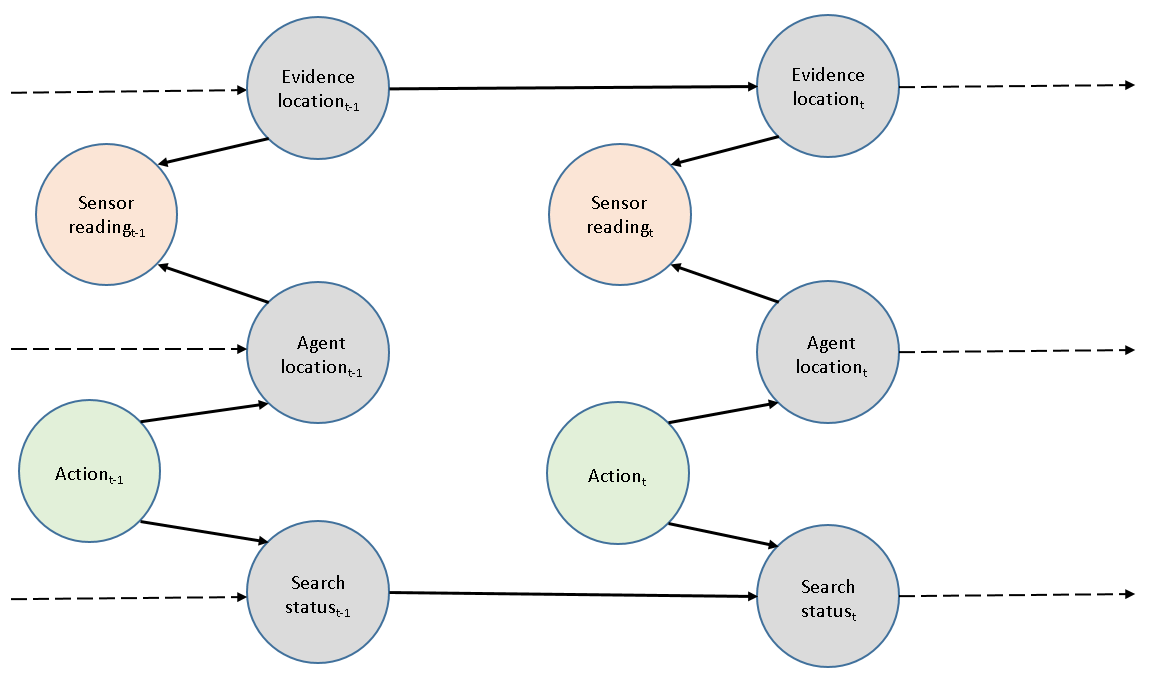
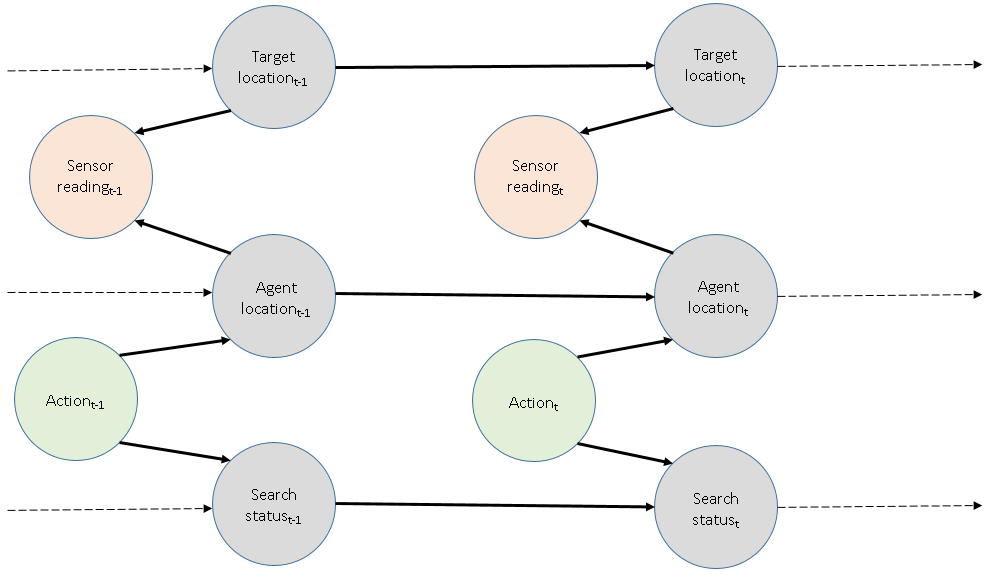
Updated as far as Search Termination Criteria

diff --git a/Chapters/MultiAgentTargetDetection/MultiAgentTargetDetectionUsingRavs.tex b/Chapters/MultiAgentTargetDetection/MultiAgentTargetDetectionUsingRavs.tex
@@ -1,4 +1,7 @@
 %First define the problem to be solved
+\nomenclature{CPD}{Conditional Probability Distribution}
+\nomenclature{SPRT}{Sequential Probability Ratio Test}
+
 \subsection{Problem Description}
 As mentioned in Chapter \ref{chapter:introduction}, a major problem in hazardous scene management includes localizing sources of hazardous materials and localizing potential sources of evidence. The reasons these are difficult problems, in the context of the ROCSAFE project, are:
 \begin{itemize}
@@ -74,18 +77,18 @@ The unknown location of the target can be described by the set
 \[\{x_1, x_2, ..., x_n, x_{n+1}\}\]
 where $x_i$ represents the target location being at grid cell $i$ for $i \in \{1, 2, .., n\}$, and $x_{n+1}$ represents that the target is not present. The search status can be described by 
 \[ \{ONGOING, TERMINATED\_x_1, TERMINATED\_x_2, ..., TERMINATED\_x_n, TERMINATED\_x_{n+1}\} \]
-where $ONGOING$ represents that the search is continuing and $TERMINATED\_x_i$ is an absorbing terminal state that arises from the agent taking a terminal action indicating the target location, explained further in the subsequent paragraph. It is necessary to include the terminal states in the environment representation in order to specify \textit{goal states} and a \textit{performance measure} for the agent. The Cartesian product of these sets defines the environment state.
+where $ONGOING$ represents that the search is continuing and $TERMINATED\_x_i$ is an absorbing terminal state that arises from the agent taking a terminal action indicating the target location, explained further in the subsequent paragraph. It is necessary to include the terminal states in the environment representation in order to specify \textit{goal states} and a \textit{performance measure} for the agent. For technical reasons, the agent's location was also included in it's state representation. The Cartesian product of these sets defines the environment state. Figure \ref{fig:FirstDBNUsed} depicts the conditional independence assumptions made between the hidden state variables.
 \note{Goal state not explicitly mentioned - might need to modify definitions to be able to include one.}
 
 \subsubsection{Actuators and Sensors}
-Here we consider the actions that may be chosen to be performed by actuators and percepts that may be received by sensors. The problem of \textit{target localization} in the context of this chapter requires the agent to move around a discrete grid and use a calibrated sensor to record noisy readings that indicate whether the target is present or not at the location of the reading. It is therefore intuitive to describe the set of possible actions to be performed by the actuators by the set of all $n$ possible grid locations that the agent can move to and take a sensor reading at, indexed by an arbitrary ordering: $\{location_1, location_2, ..., location_n\}$. We add additional actions to this set, $\{TERMINATE\_SEARCH\_x_{i}\}$, for $i \in \{1, 2, ..., n, n+1\}$, which lead to an absorbing terminal state representing the agent's conclusion regarding whether a target is present or not, $TERMINATED\_x_{i}$ . The set of percepts that the agent will receive from its sensors come from the binary set \{1, 0\}, indicating the target has or has not been detected, respectively.
+Here we consider the actions that may be chosen to be performed by actuators and percepts that may be received by sensors. The problem of \textit{target localization} in the context of this chapter requires the agent to move around a discrete grid and use a calibrated sensor to record noisy readings that indicate whether the target is present or not at the location of the reading. It is therefore intuitive to describe the set of possible actions to be performed by the actuators by the set of all $n$ possible grid locations that the agent can move to and take a sensor reading at, indexed by an arbitrary ordering: $\{move\_x_1, move\_x_2, ..., move\_x_n\}$. We add additional actions to this set, $\{terminate\_search\_x_{i}\}$, for $i \in \{1, 2, ..., n, n+1\}$, which lead to an absorbing terminal state representing the agent's conclusion regarding whether a target is present or not, $terminated\_x_{i}$ . The set of percepts that the agent will receive from its sensors come from the binary set \{1, 0\}, indicating the target has or has not been detected, respectively.
 
 
 
-\subsubsection{Performance Measure}
+\subsubsection{Performance Measure}\label{sssection:PerfMeas}
 The agent's performance measure maps sequences of environment states to the real numbers. Given the above definitions, it is clear that environment states of the form
 \[ <x_i, TERMINATED\_x_i> \]
-should be of high value (as they indicate that the agent has correctly identified the location of the target in the environment). Secondary to this, longer percept sequences should have a lower value than shorter percept sequences. Therefore, the performance measure primarily gives high values to the agent when it correctly identifies the location of the target or correctly concludes that the target is not present, with a secondary ordering on value determined by the time taken to come to a conclusion. This can be defined as:
+should be of high value (as they indicate that the agent has correctly identified the location of the target in the environment). Secondary to this, longer percept sequences should have a lower value than shorter percept sequences. Therefore, the performance measure primarily gives high values to the agent when it correctly identifies the location of the target or correctly concludes that the target is not present, with a secondary ordering on value determined by the time taken to come to a conclusion. The actual value of the function only needs to follow this ordering, but could be suitably be defined as:
 \note{Be careful that this agrees with the rest}
 \[
 Performance Measure(state_1,..., state_t) = 
@@ -116,7 +119,7 @@ It is worth noting that this performance measure suggests goal states for the ag
 \[ <x_i, TERMINATED\_x_i> \]
 
 \subsubsection{Agent Function Design}
-Once key components of the agent and it's environment were identified, we began working on the design of the agent function. In Chapter \ref{Background}, four common classes of agents were identified, based on the design of their corresponding agent function. Using this list as a reference, we decided that a model-based agent would be a suitable starting point, since model-based agents can maintain internal state to handle problems associated with partial observability \cite{AIAMA}. The decision was also based on related works \cite{Chung2007ASearchb}, \cite{WaharteProbabilisticUAVsb}, \cite{Charrow2014CooperativeLocalization}. The agent function is implemented as shown in algorithm \ref{alg:ModelBasedReflexAgent}, based on \cite[p.~51]{AIAMA}. 
+Once key components of the agent and its environment were identified, we began working on the design of the agent function. In Chapter \ref{Background}, four common classes of agents were identified, based on the design of their corresponding agent function. Using this list as a reference, we decided that a model-based agent would be a suitable starting point, since model-based agents can maintain internal state to handle problems associated with partial observability \cite{AIAMA}. The decision was also based on related works \cite{Chung2007ASearchb}, \cite{WaharteProbabilisticUAVsb}, \cite{Charrow2014CooperativeLocalization}. The agent function is implemented as shown in algorithm \ref{alg:ModelBasedReflexAgent}, based on \cite[p.~51]{AIAMA}. 
 \note{Considered adding a figure, but not sure how much extra value it will provide}
 %A diagram which outlines the agent operates in relation to the environment is shown in figure \ref{}.
 
@@ -153,35 +156,175 @@ $
 \end{algorithmic} 
 \end{algorithm}
 
-The algorithm clearly outlines how the agent maintains its representation of the world, based on percepts and actions. This abstract version of the model-based reflex agent function is used throughout the rest of this section when referring to agents. Subsequent sections provide details of how to implement the agent's internal state, the world model and the action-selection function.
+The algorithm outlines how the agent maintains its representation of the world, based on percepts and actions. This abstract version of the model-based reflex agent function is used throughout the rest of this section when referring to agents. Subsequent sections provide details of how to implement the agent's internal state, the world model and the action-selection function.
 
 \subsubsection{Stochastic Environment Model}
 \workinprogress
-Model-based agents require a concrete implementation of a model of their world, in order to maintain their internal state. Since the world is assumed to be partially observable, the agent's internal state can be thought of as its opinion of what state the world might be in, and its model describes how it believes the world changes. Chapter \ref{chapter:Background} outlines the background behind potential models of the stochastic world, including both internal state representation and how internal state can be updated.\par
-Hidden Markov Models and Dynamic Bayesian Networks were identified as highly suitable models, due to the fact that they provide a succinct and flexible representation of stochastic world state, as well as efficient online state estimation updating algorithms. We chose to use a Dynamic Bayesian Network (DBN), due to the fact that it can help overcome some of the limitations that HMMs potentially may present (outlined in chapter \ref{chapter:Background}). DBNs also facilitate the incorporation of extra variables, such as battery level, which we were intending to do once a basic implementation was shown to work as intended.
+Model-based agents require a concrete implementation of a model of their world, in order to maintain their internal state. The agent's internal state can be thought of as its opinion of what state the world might be in, and its model describes how it believes the world changes over time. Chapter \ref{chapter:Background} outlines the background behind potential models of the stochastic world, including both how internal state can be represented and how internal state can be updated.\par
+Hidden Markov Models and Dynamic Bayesian Networks were identified as highly suitable models, due to the fact that they provide a succinct and flexible representation of hidden stochastic world state, as well as efficient online state estimation updating algorithms. We chose to use a Dynamic Bayesian Network (DBN), due to the fact that it can help overcome some of the limitations that HMMs potentially may present (outlined in chapter \ref{chapter:Background}). DBNs also facilitate the incorporation of extra variables with arbitrary conditional dependence relations. This was desirable, since we planned to extend the model to include extra variables, such as battery level, once a basic implementation was shown to work as intended.
 
-The DBN used is shown in figure \ref{FirstDBNUsed}
-
+The 2-Time Slice DBN used is shown in figure \ref{fig:FirstDBNUsed} describes the agent's world model. A first-order Markov assumption is made, where the current state only depends on the state directly preceding it. Grey coloured variables are \textit{hidden state variables} and are assumed to not be directly observable. Green coloured variables are \textit{control actions} taken by the agent (which use the agent's estimated state) and the peach coloured variables are \textit{evidence variables}, which are assumed to be observable and depend on the hidden world state. 
+%The agent's location and the search status hidden state variables are mainly included for technical reasons
+\note{maybe re-position figure so text wraps}
 \begin{figure}
     \centering
     \includegraphics[width = 0.8\linewidth]{Chapters/MultiAgentTargetDetection/Figs/DBNWithMultipleHiddenState.PNG}
+     \caption{First Version of the DBN representing the agent world model}
     \label{fig:FirstDBNUsed}
-    \caption{First Version of the DBN representing the agent world model}
-    
+\end{figure}
+A number of conditional probabilities are specified here in order to describe the factored joint distribution of the world model fully. The full tables are omitted as they are sparse. For brevity, we use the abbreviation Loc for Location.
+
+
+
+\begin{figure}[H]
+\scriptsize
+\begin{equation}\label{eqn:EvidenceVarsProbs}
+    %\centering
+    p(SensorReading_t | AgentLoc_{t-1}, EvidenceLoc_{t-1})  = 
+    \begin{cases}
+    \alpha \quad \text{ if } SensorReading_t=1 \text{ and } EvidenceLoc_t \neq AgentLoc_t
+    \\
+    1-\beta \quad \text{ if } SensorReading_t=1 \text{ and } EvidenceLoc_t = AgentLoc_t
+    \\
+    \beta \quad \text{ if } SensorReading_t=0 \text{ and } EvidenceLoc_t \neq AgentLoc_t
+    \\
+    1-\alpha \quad \text{ if } SensorReading_t=0 \text{ and } EvidenceLoc_t \neq AgentLoc_t
+    \end{cases}
+    %
+\end{equation}
+\caption{Conditional Probability Distribution for the $Evidence$ Variable}
+\end{figure}
+
+
+\begin{figure}[H]
+\scriptsize
+\begin{equation}\label{eqn:TargetLocProbs}
+    p(TargetLoc_{t} | TargetLoc_{t-1}) =
+    \begin{cases}
+    1 \quad \text{ if } TargetLoc_{t}=TargetLoc_{t-1}
+    %agent returns correct target Loc.} 
+    \\
+    0 \quad \text { otherwise. }
+    \end{cases}
+\end{equation}
+\caption{Conditional Probability Distribution for the $TargetLocation$ Variable}
 \end{figure}
 
 
 
 
-\subsubsection{Internal state}
-\placeholder
+
+\begin{figure}[H]
+\scriptsize
+%\begin{equation}\label{eqn:SearchStatus}
+    \begin{gather}\label{eqn:SearchStatus}
+        p(SearchStatus_t | SearchStatus_{t-1}, Action_{t-1}) = \\
+        \begin{cases}
+        1 \quad \text{ if } SearchStatus_t = terminated\_x_i \text{ and } SearchStatus_{t-1} = terminated\_x_i 
+        \\
+        1 \quad \text{ if } Action_t = terminate\_x_i \text{ and } SearchStatus_{t-1}=ongoing \text{ and } SearchStatus_{t} = terminated\_x_i
+        \\
+        1 \quad \text{ if } Action_t = move\_x_i \text{ and } SearchStatus_{t-1}=ongoing \text{ and } SearchStatus_t=ongoing
+        %agent returns correct target location.} 
+        \\
+        0 \quad \text { otherwise. }
+        \end{cases}
+    \end{gather}
+%\end{equation}
+\caption{Conditional Probability Distribution for the $SearchStatus$ Variable}
+\end{figure}
+
+
+
+
+
+\begin{figure}[H]
+\scriptsize
+    \begin{equation}\label{eqn:AgentLocation}
+        p(AgentLoc_t | AgentLoc_{t-1}, Action_{t}) = 
+        \begin{cases}
+        1 \quad \text{ if } Action_t = move\_x_i \text{ and } AgentLoc_t = x_i
+        \\
+        1 \quad \text{ if } Action_t = terminate\_x_i \text{ and } AgentLoc_t = AgentLoc_{t-1}
+        \\
+        0 \quad \text{otherwise}
+        \end{cases}
+    \end{equation}
+\caption{Conditional Probability Distribution for the $AgentLocation$ Variable}
+\end{figure}
+
+
+\normalsize
+The semantics of the equations listed above is given here: 
+\begin{enumerate}
+    \item Equation \ref{eqn:EvidenceVarsProbs} uses two parameters, $\alpha$ and $\beta$, to represent the probability of making a false positive and false negative sensor reading, respectively. These are assumed to have been calculated by using pre-calibrated values of the sensor. This model is very flexible and does not stipulate any restrictions on the sensor other than that it must return a reading indicating that the target is present or not.
+    \item  Equation \ref{eqn:TargetLocProbs} simply states that the location of the target does not change, even though it is hidden. It would be very easy to modify this to allow for moving target detection in the case of a non-static target.
+    \item Equate \ref{eqn:SearchStatus} is also states a number of intuitive notions. The first line states that once the agent terminates the search, it remains over. The second line states that if the agent requests an ongoing search to terminate, then it does so deterministically. The third line states that if the agent chooses to move in an ongoing search, then the search remains ongoing.
+    \item Equation \ref{eqn:AgentLocation} simply outlines that the agent moves to new locations deteministically. It also indicates that should the agent choose to terminate the search, then the environment enters a terminal state, indicating that the search is over.
+\end{enumerate}
+
+
+Note that despite the fact that some hidden state variables cannot be observed directly, it is still possible to infer their value exactly based on their starting state. For example, the position of the agent is a deterministic function of its actions and previous position. These variables could have been treated as variables that are internal to the agent rather than part of the hidden world state and many authors omit such variables for the sake of clarity.
+\note{need to outline why I have included them - mainly because evidence probability depends on agent location as well as source location}
+
+
+\subsubsection{Estimated State}
+\workinprogress
+Since the agent operates in a partially observable environment, the agent's internal state representation of the environment needs to take into account the fact that the current environment state is not certain. For this reason, a probability distribution over possible environment states is used by the agent to internally represent the environment state. The internal agent state is described mathematically by 
+\[p(x_t | e_{1:t}, u_{1:t})\]
+, which is the distribution of possible world states given all evidence and control actions up to the current time step, where $x_t$, $e_t$ and $u_t$ follow the conventions of being the hidden state variables, the evidence variables and the control action variables. The agent updates this state using the world model specified in the preceding chapter, using the filtering algorithm explained in section \ref{subsection:InferenceHMMDBN} of Chapter \ref{chapter:Background}. There are a couple of noteworthy points:
+\begin{itemize}
+    \item A distribution that has a single sharp peak would indicate that the agent believes that the target is at a specific location with high confidence. This is clearly preferred to a flat, uniform distribution representing uncertainty in relation to where the target might be.
+    \item The only true source of uncertainty in the world state is introduced by the sensor. Therefore, analysis of this state representation in relation to the sensor model should provide insight into how the system performs.
+\end{itemize}
+In order to update the estimated state of the agent, the below equations are used, which are described in subsection \ref{subsection:InferenceHMMDBN}. For brevity $x_t$ denotes the hidden state variables, $e_t$ denotes the evidence variable and $u_t$ denotes the control action taken by the agent. The equations only describe the estimated state update for move actions, since if the agent terminates the search a terminal state is deterministically entered. The $SearchStatus$ variable is omitted from the equations since it only effects the equations if the $Action$ variable is to terminate the search.
+\footnotesize
+\begin{figure}[H]
+\scriptsize
+%\begin{equation}\label{eqn:SearchStatus}
+    \begin{gather}\label{eqn:SearchStatus}
+        p(AgentLoc_t = x, TargetLoc_t = y | e_{1:t}, u_{1:t}) = \\
+        \begin{cases}
+            \eta \alpha p(AgentLoc_{t-1} = x, TargetLoc_t = y | e_{1:t-1}, u_{1:t-1}) \text{ if $e_t$ is a positive reading and $AgentLoc_t \neq TargetLoc_t$} \\
+            \eta \beta p(X_{t-1}=x_t | e_{1:t-1}, u_{1:t-1}) \text{ if $e_t$ is a negative reading and $Agent_loc_t$ = $TargetLoc_t$} \\
+            \eta (1-\alpha) p(X_{t-1}=x_t | e_{1:t-1}, u_{1:t-1}) \text{ if $e_t$ is a negative reading and $Agent_loc_t \neq TargetLoc_t$} \\
+            \eta (1-\beta) p(X_{t-1}=x_t | e_{1:t-1}, u_{1:t-1}) \text{ if $e_t$ is a positive reading and $Agent_loc_t$ = $TargetLoc_t$} \\
+        \end{cases}
+%\eta O_{t} T^{T} f_{1:t-1} 
+    \end{gather}
+\end{figure}
+\normalsize
 
 \subsubsection{Action Selection Strategy}
-\placeholder
+\workinprogress
+At each time step the agent may either choose to terminate the search or move to a new location to take a measurement reading. The agent may choose which of these actions to perform based on its location, the search status and its internal representation of the environment, which are outlined in the preceding section. First we discuss how move actions are chosen, if the agent decides that the search should not be terminated at the current time step. We began by implementing some of the recommended basic search strategies outlined in the related works by \citeauthor{Chung2007ASearchb} \cite{Chung2007ASearchb} and \citeauthor{Waharte2010SupportingUAVs} \cite{Waharte2010SupportingUAVs}. These search methods are devised in order to optimize the agent's performance measure, which is set out in \ref{sssection:PerfMeas}. The results of applying these strategies are discussed in <give reference to results section>\par 
+\note{In the following, might be good to mention the motivation in relation to the performance measure}
+\textbf{Random Search}
+This method serves as a baseline against which similar strategies can be compared. The agent simply chooses the next grid location to explore randomly from all possible grid locations. The expected number of moves needed to take a reading at all possible grid cells is given by the solution to the well-known \textit{coupon collectors problem}, $nH_n$, where $H_n$ is the $n_{th}$ harmonic number and $n$ is the total number of grid cells, which gives a good idea of the expected amount of time that will be taken to conclude the search.
+
+\textbf{Greedy Search}
+A simple greedy search was implemented next, where the agent chooses to visit the grid cell with the highest estimated probability of containing the target in a localized region around the agent:
+\footnotesize
+\[
+Action_t = \argmax_{NewLoc \in N(AgentLoc)}{p(TargetLoc = NewLoc, SearchStatus, AgentLocation| e_{1:t}, u_{1:t})}
+\]
+\normalsize
+$N(AgentLoc)$ is a function that returns a neighborhood of locations around the agent's location and can be calibrated to trade off the cost of saccading between grid cells that may be far from each other against the cost of limiting the agents range to a narrow and possible "cold" region.This method is designed bearing in mind that there may be motivation to explore some areas before others based on prior knowledge. 
+
+%\textbf{$\epsilon$-greedy Search} Greedy search  simplest method to implement was an $\epsilon$-greedy action selection method, whereby the agent moves to the grid cell with the highest estimated probability in a pre-defined radius with probability 1-$\epsilon$ and a random grid cell in the pre-defined with probability $\epsilon$. This encourages the agent to exploit it's current know\par
+
+\textbf{Sweep Search}
+This strategy sweeps the region of interest systematically, aiming to take a reading at each grid cell an equal number of times while minimizing the total distance travelled. It then traverses this same path again in reverse order. This required planning a trajectory in advance, which is often referred to in related literature as the \textit{complete coverage path}. Since the region to be swept is assumed to be a grid, where adjacent points are assumed to be equidistant, a number of heuristic solutions were explored which are outlined in section <reference to route planning>.\par
+
+\textbf{POMDP Based Search} 
+\note{Not sure if I should go into this at all. Work was done in understanding POMDPs and clearly the solution can be easily framed as a POMDP but my work stopped short in actually finding a solution to POMDP that works well}
+As outlined in 
+details. \par
 
 \subsubsection{Search Cutoff Strategy}
-\placeholder
-
+\workinprogress
+At each discrete timestep, the agent can either choose to move to a new grid location to record a sensor measurement or it can decide to terminate the search based on its estimated state of the environment. There is a trade-off in terminating the search early, which means that less time and resources are spent on continuing the search, versus the possibility of drawing misinformed conclusions from the search due to a lack of information. For example, if the agent receives a series of false positive readings at a given location, it could mistakenly choose to conclude that the target is present at a given location rather than sample further to gain confidence that it has correctly found the location of the target. Following this line of thinking, it is clear that a strategy needs to be devised to minimize the probability of drawing false conclusions, which is in line with the performance measure set out in \ref{sssection:PerfMeas}.\par
+Previous related work, \cite{Chung2007ASearchb} has addressed this problem using methods that use heuristics as well as a more formal asymptotic theory-based approach. We explored both methods in this work, choosing to use the Sequential Probability Ratio Test (SPRT). 
 
 \subsubsection{Implementing the Agent}
 \placeholder

diff --git a/Chapters/MultiAgentTargetDetection/MultiAgentTargetDetection.tex b/Chapters/MultiAgentTargetDetection/MultiAgentTargetDetection.tex
@@ -14,7 +14,7 @@ This chapter outlines the approach taken to solve the research question stated i
 \input{Chapters/MultiAgentTargetDetection/BayesianFiltering/DynamicBayesNets}
 \label{Chapter:DBN}
 
-\subsection{Inference Using HMMs and DBNs}
+\subsection{Inference Using HMMs and DBNs}\label{subsection:InferenceHMMDBN}
 \input{Chapters/MultiAgentTargetDetection/BayesianFiltering/InferenceAlgorithms}
 
 \subsection{Prediction Algorithms}
